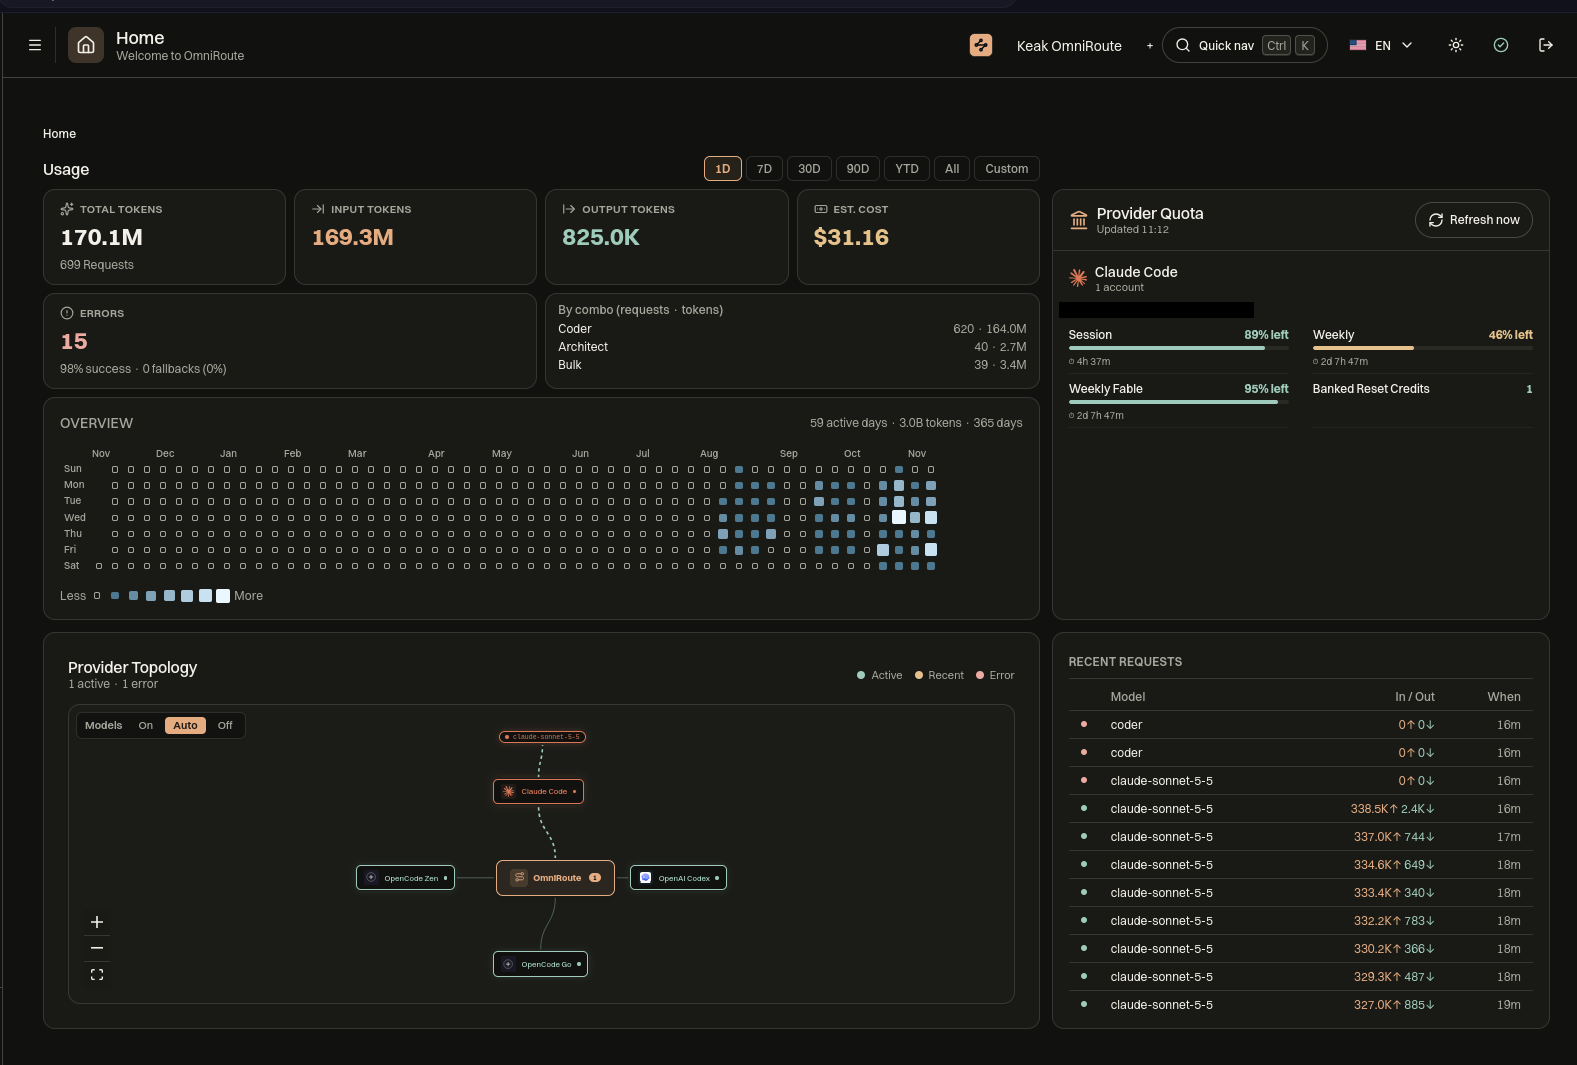
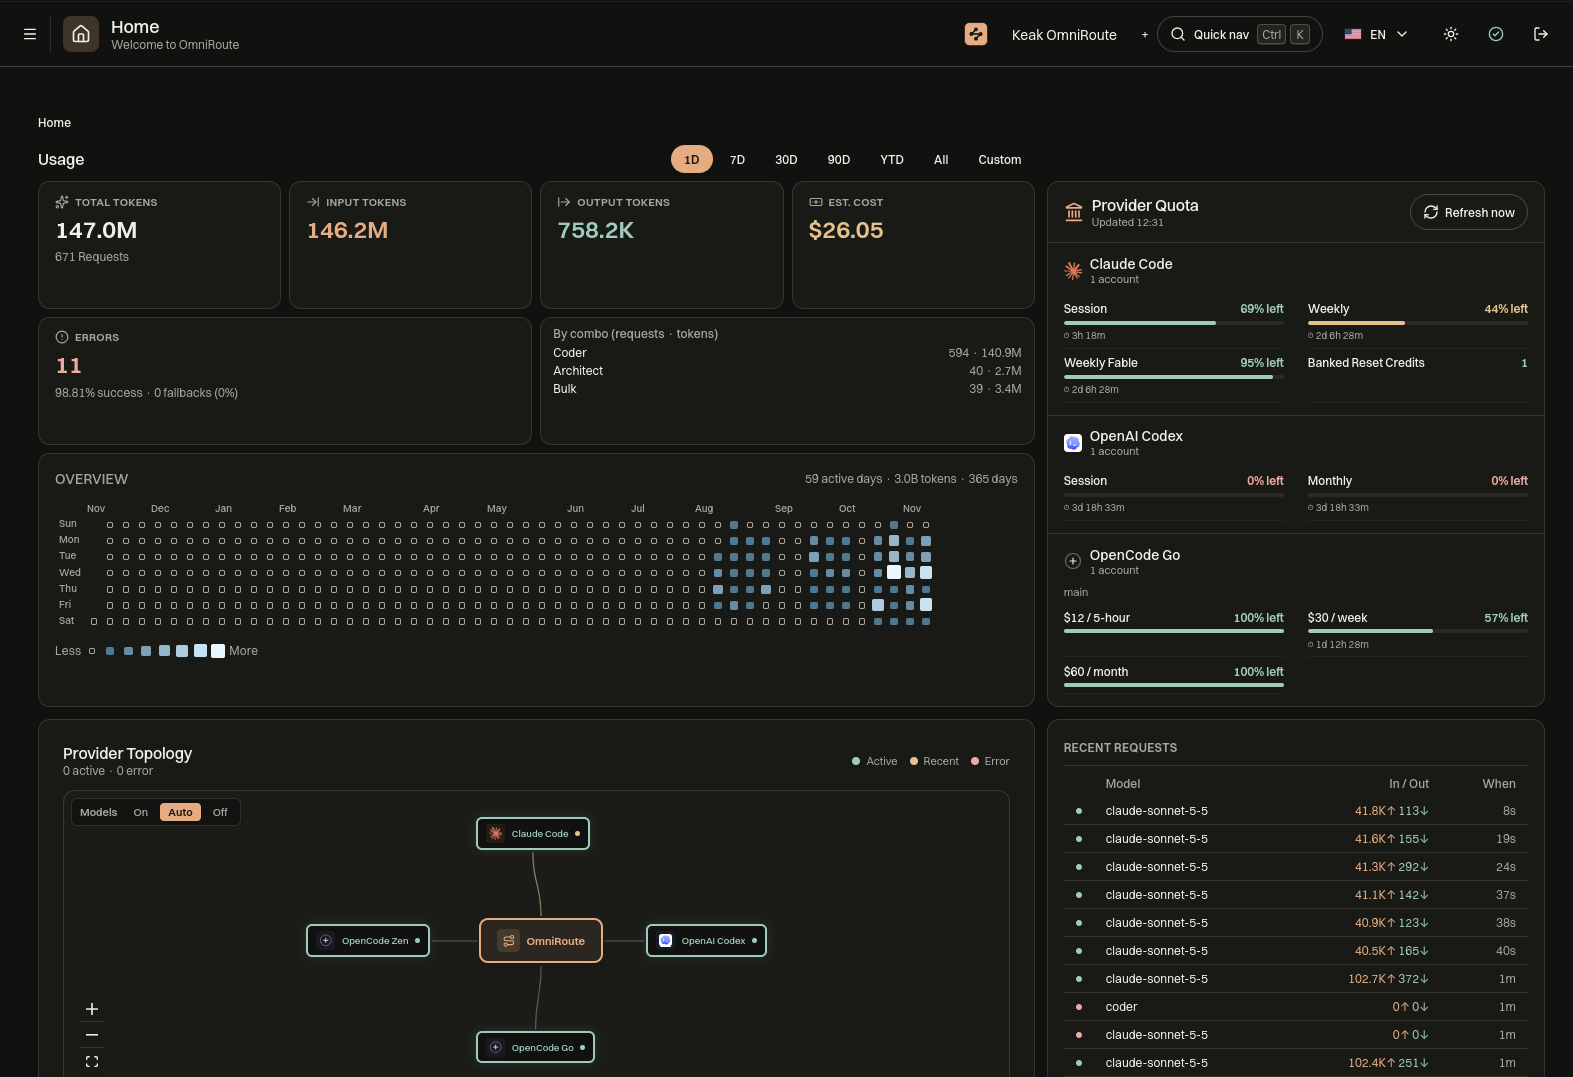
docs(readme): update the /home screenshot
New capture showing the quota card for every connected provider (Claude Code, OpenAI Codex, OpenCode Go). The bottom strip of the desktop is cropped out. The README alt text and the quota row of the change table now describe all providers instead of only Claude.

diff --git a/README.md b/README.md
@@ -12,14 +12,14 @@ The full upstream README is kept as [`docs/ORIGINAL_README.md`](docs/ORIGINAL_RE
 
 The `/home` dashboard page now shows usage at a glance, without opening Analytics.
 
-![The /home page: usage cards with the range selector, usage by combo, activity heatmap, Claude provider quota, provider topology and recent requests](docs/screenshots/fork-home.png)
+![The /home page: usage cards with the range selector, usage by combo, activity heatmap, provider quotas (Claude Code, OpenAI Codex, OpenCode Go), provider topology and recent requests](docs/screenshots/fork-home.png)
 
 | Area                 | Change                                                                                                                                    |
 | -------------------- | ----------------------------------------------------------------------------------------------------------------------------------------- |
 | Usage block          | Total, input and output tokens, estimated cost, errors with success and fallback rate, and the activity heatmap. Same cards as Analytics. |
 | Range selector       | 1D, 7D, 30D, 90D, YTD, All and Custom (reuses the Analytics range picker).                                                                |
 | Usage by combo       | Requests and tokens per combo for the selected range. New endpoint `GET /api/usage/by-combo`.                                             |
-| Claude quota         | Provider quota card next to the usage block, showing every quota row (no "show more" toggle).                                             |
+| Provider quotas      | Quota card next to the usage block for every connected provider with quota tracking, showing every quota row (no "show more" toggle).     |
 | Layout               | Usage and quota side by side; topology and recent requests are shorter and share the same height.                                         |
 | Removed from `/home` | The host CPU and memory cards (the component still exists, it is just not mounted).                                                       |
 
